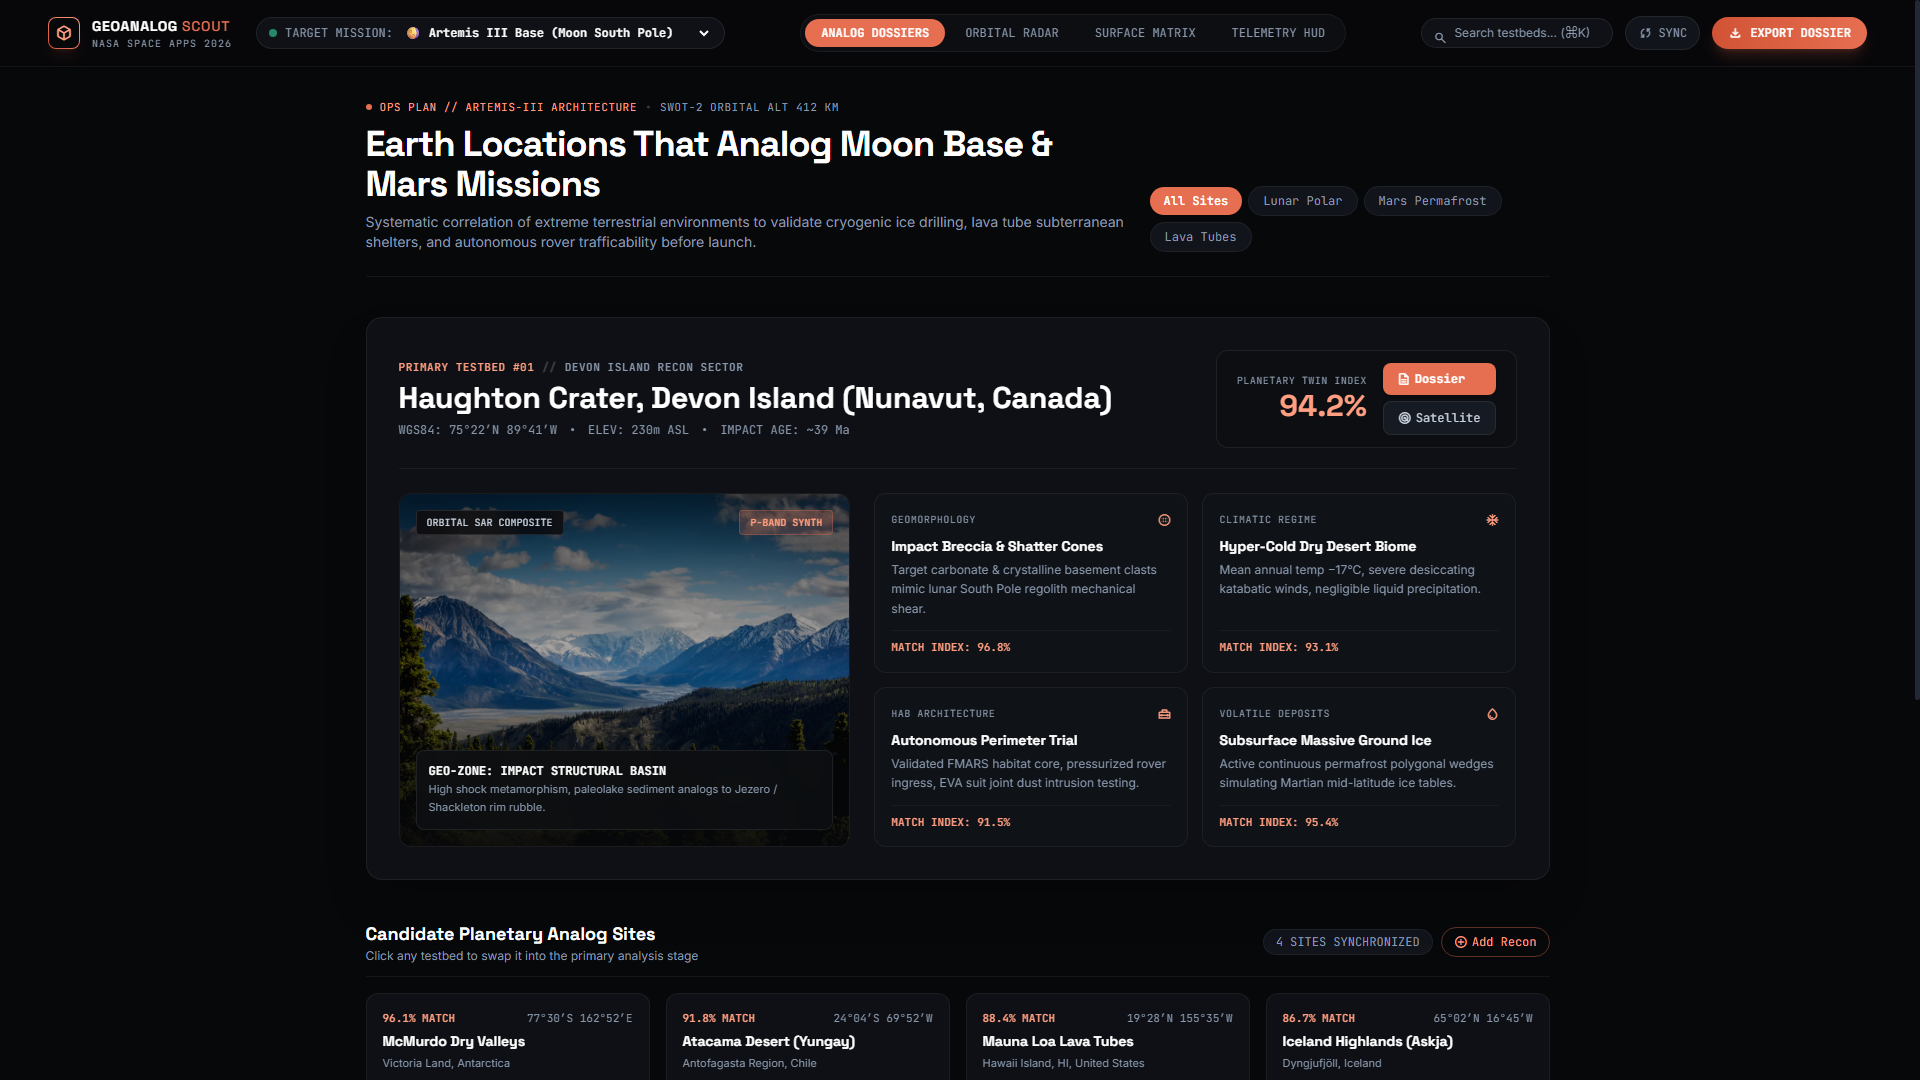
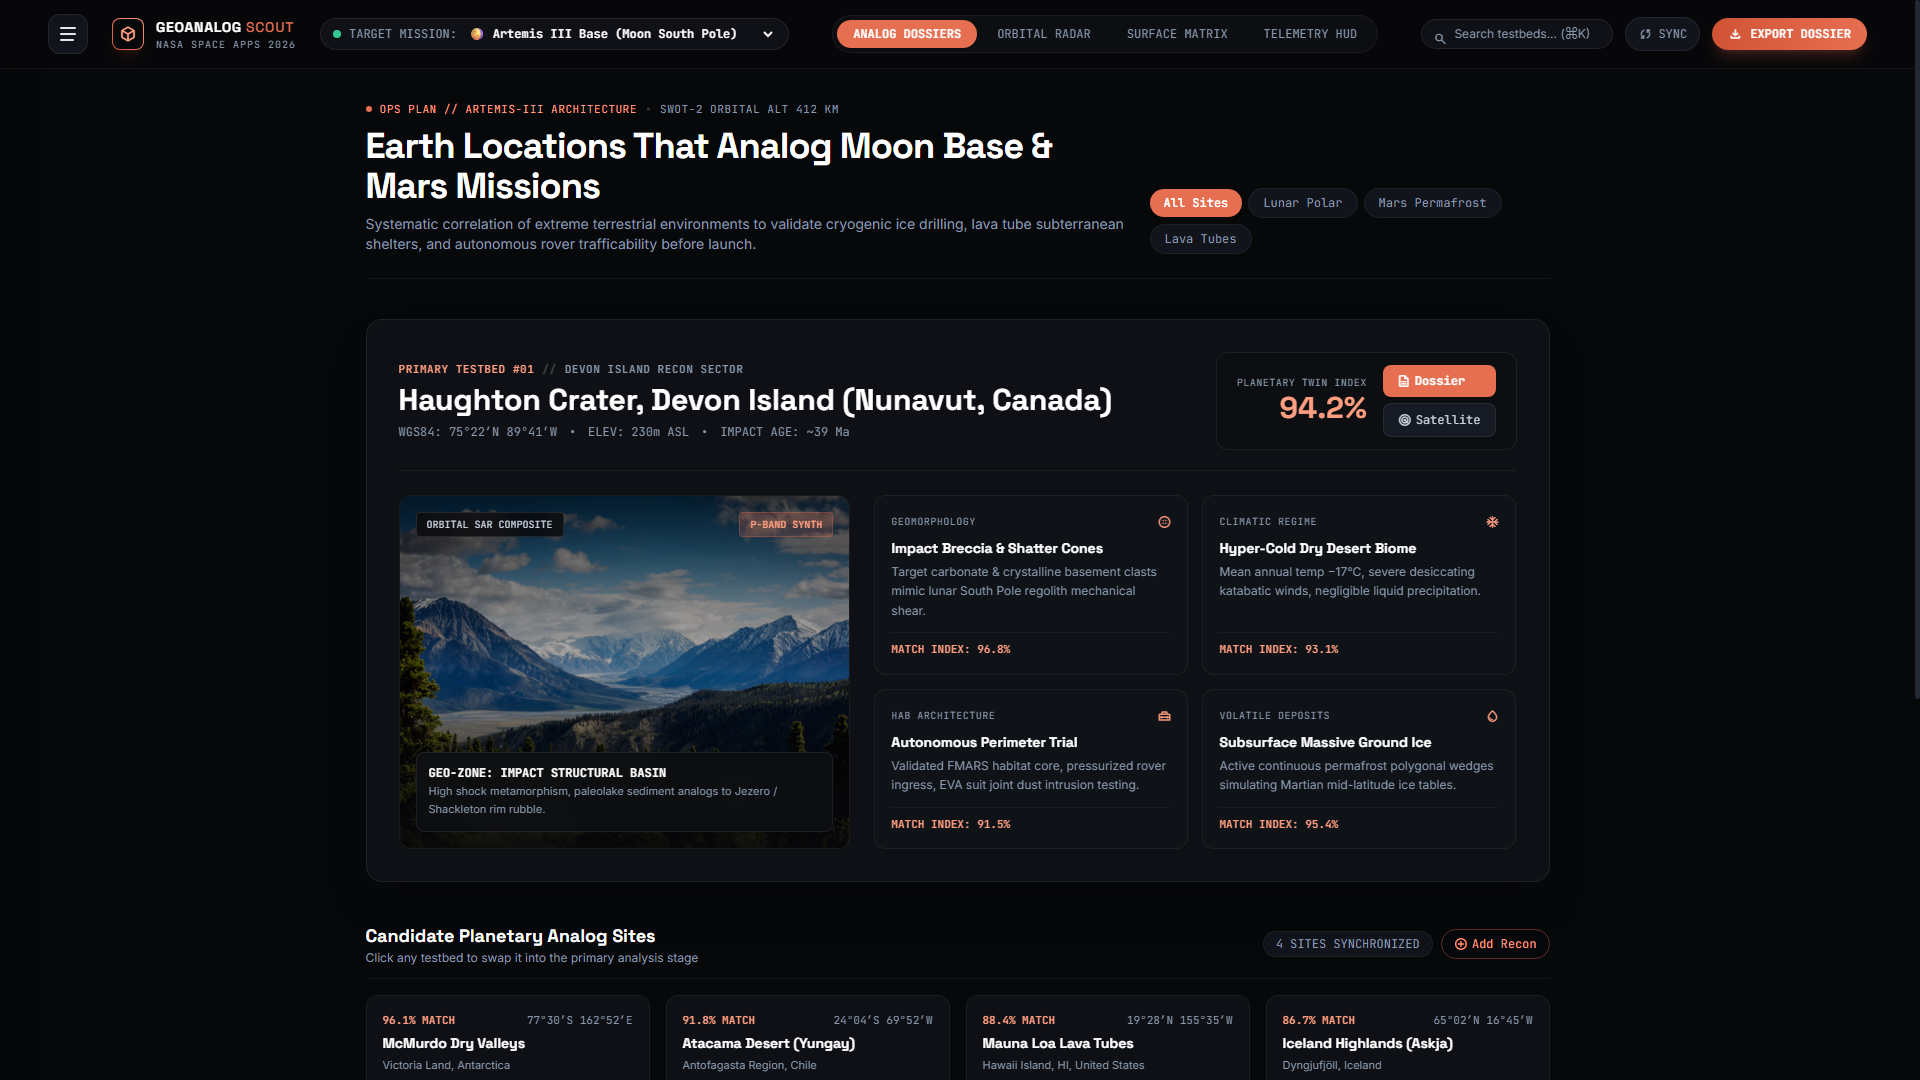
Add collapsible 3-lines hamburger menu to toggle analog sites catalog sidebar

diff --git a/app.js b/app.js
@@ -18,6 +18,7 @@ document.addEventListener('DOMContentLoaded', () => {
 
   initHeroDossier(activeSite);
   renderCandidateCards('all');
+  initCollapsibleSidebar();
   initFilterChips();
   initSearch();
   initMissionSelector();
@@ -542,6 +543,7 @@ function initAddReconForm() {
     sites.push(newSite);
     renderCandidateCards(activeCategory);
     populateMatrixTable();
+    if (window.refreshSidebarSites) window.refreshSidebarSites();
     initHeroDossier(newSite);
 
     form.reset();
@@ -613,7 +615,7 @@ function initSyncButton() {
 // ================= 12. ORBITAL PASS COUNTDOWN TIMER =================
 function initOrbitalPassTimer() {
   const timerEl = document.getElementById('orbital-timer');
-  if (!timerEl) return;
+  const sidebarTimerEl = document.getElementById('sidebar-pass-timer');
 
   let totalSeconds = 14 * 60 + 28;
 
@@ -623,6 +625,237 @@ function initOrbitalPassTimer() {
 
     const m = String(Math.floor(totalSeconds / 60)).padStart(2, '0');
     const s = String(totalSeconds % 60).padStart(2, '0');
-    timerEl.textContent = `T-MINUS 00:${m}:${s}`;
+    const timeStr = `T-MINUS 00:${m}:${s}`;
+    if (timerEl) timerEl.textContent = timeStr;
+    if (sidebarTimerEl) sidebarTimerEl.textContent = timeStr;
   }, 1000);
+}
+
+// ================= 13. COLLAPSIBLE LEFT SIDEBAR (THREE LINES MENU) =================
+function initCollapsibleSidebar() {
+  const toggleBtn = document.getElementById('sidebar-toggle-btn');
+  const closeBtn = document.getElementById('sidebar-close-btn');
+  const backdrop = document.getElementById('sidebar-backdrop');
+  const drawer = document.getElementById('left-sidebar-drawer');
+  const container = document.getElementById('sidebar-sites-container');
+  const searchInput = document.getElementById('sidebar-search-input');
+  const filterChips = document.getElementById('sidebar-filter-chips');
+  const missionLabel = document.getElementById('sidebar-mission-label');
+
+  if (!toggleBtn || !drawer || !backdrop) return;
+
+  let isSidebarOpen = false;
+  let sidebarCategory = 'all';
+  let sidebarSearchTerm = '';
+
+  function openSidebar() {
+    isSidebarOpen = true;
+    drawer.classList.remove('-translate-x-full');
+    drawer.classList.add('translate-x-0');
+    backdrop.classList.remove('opacity-0', 'pointer-events-none');
+    backdrop.classList.add('opacity-100', 'pointer-events-auto');
+    toggleBtn.classList.add('sidebar-open');
+    toggleBtn.setAttribute('aria-expanded', 'true');
+    renderSidebarSites();
+    if (searchInput) searchInput.focus();
+  }
+
+  function closeSidebar() {
+    isSidebarOpen = false;
+    drawer.classList.add('-translate-x-full');
+    drawer.classList.remove('translate-x-0');
+    backdrop.classList.add('opacity-0', 'pointer-events-none');
+    backdrop.classList.remove('opacity-100', 'pointer-events-auto');
+    toggleBtn.classList.remove('sidebar-open');
+    toggleBtn.setAttribute('aria-expanded', 'false');
+  }
+
+  function toggleSidebar() {
+    if (isSidebarOpen) {
+      closeSidebar();
+    } else {
+      openSidebar();
+    }
+  }
+
+  // Toggle button click (Three lines)
+  toggleBtn.addEventListener('click', (e) => {
+    e.stopPropagation();
+    toggleSidebar();
+  });
+
+  // Close button click
+  if (closeBtn) {
+    closeBtn.addEventListener('click', closeSidebar);
+  }
+
+  // Backdrop click
+  backdrop.addEventListener('click', closeSidebar);
+
+  // Keyboard Escape
+  window.addEventListener('keydown', (e) => {
+    if (e.key === 'Escape' && isSidebarOpen) {
+      closeSidebar();
+    }
+  });
+
+  // Search input in sidebar
+  if (searchInput) {
+    searchInput.addEventListener('input', (e) => {
+      sidebarSearchTerm = e.target.value.toLowerCase().trim();
+      renderSidebarSites();
+    });
+  }
+
+  // Category filter chips in sidebar
+  if (filterChips) {
+    filterChips.addEventListener('click', (e) => {
+      const chip = e.target.closest('.sidebar-cat-chip');
+      if (!chip) return;
+
+      document.querySelectorAll('.sidebar-cat-chip').forEach(c => {
+        c.className = 'sidebar-cat-chip px-2.5 py-1 rounded-full text-[10px] font-mono bg-space-850 text-slate-subtle hover:text-white border border-white/[0.06] transition-all cursor-pointer';
+      });
+      chip.className = 'sidebar-cat-chip px-2.5 py-1 rounded-full text-[10px] font-mono bg-terracotta-500 text-white font-semibold transition-all cursor-pointer';
+
+      sidebarCategory = chip.getAttribute('data-cat') || 'all';
+      renderSidebarSites();
+    });
+  }
+
+  // Quick Action Buttons in sidebar
+  const btnMap = document.getElementById('sidebar-btn-map');
+  if (btnMap) {
+    btnMap.addEventListener('click', () => {
+      closeSidebar();
+      const targetBtn = document.getElementById('btn-view-satellite') || document.getElementById('btn-hero-satellite');
+      if (targetBtn) targetBtn.click();
+    });
+  }
+
+  const btnMatrix = document.getElementById('sidebar-btn-matrix');
+  if (btnMatrix) {
+    btnMatrix.addEventListener('click', () => {
+      closeSidebar();
+      const targetBtn = document.getElementById('tab-matrix') || document.getElementById('btn-surface-matrix-view');
+      if (targetBtn) targetBtn.click();
+    });
+  }
+
+  const btnTerminal = document.getElementById('sidebar-btn-terminal');
+  if (btnTerminal) {
+    btnTerminal.addEventListener('click', () => {
+      closeSidebar();
+      const targetBtn = document.getElementById('tab-telemetry');
+      if (targetBtn) targetBtn.click();
+    });
+  }
+
+  const btnRecon = document.getElementById('sidebar-btn-recon');
+  if (btnRecon) {
+    btnRecon.addEventListener('click', () => {
+      closeSidebar();
+      const targetBtn = document.getElementById('btn-add-recon');
+      if (targetBtn) targetBtn.click();
+    });
+  }
+
+  // Render analog sites in sidebar
+  function renderSidebarSites() {
+    if (!container) return;
+    container.innerHTML = '';
+
+    const filtered = sites.filter(s => {
+      const matchesCat = (sidebarCategory === 'all' || (s.category && s.category.includes(sidebarCategory)));
+      const matchesSearch = !sidebarSearchTerm || 
+        s.name.toLowerCase().includes(sidebarSearchTerm) ||
+        s.region.toLowerCase().includes(sidebarSearchTerm) ||
+        (s.specs?.geomorphology?.title && s.specs.geomorphology.title.toLowerCase().includes(sidebarSearchTerm)) ||
+        (s.specs?.climate?.title && s.specs.climate.title.toLowerCase().includes(sidebarSearchTerm));
+      return matchesCat && matchesSearch;
+    });
+
+    if (filtered.length === 0) {
+      container.innerHTML = `
+        <div class="p-6 text-center text-slate-subtle border border-white/[0.04] rounded-xl bg-space-900/30">
+          <span class="material-symbols-outlined text-2xl mb-1 text-slate-500" data-icon="search_off">search_off</span>
+          <p class="text-xs font-mono">No matching analog sites found.</p>
+        </div>
+      `;
+      return;
+    }
+
+    filtered.forEach(s => {
+      const isActive = activeSite && (activeSite.id === s.id);
+      const card = document.createElement('div');
+      card.className = `p-3 rounded-xl border transition-all flex flex-col gap-1.5 cursor-pointer group ${
+        isActive 
+          ? 'border-terracotta-500/80 bg-space-850/90 shadow-lg shadow-terracotta-500/10' 
+          : 'border-white/[0.06] hover:border-terracotta-500/40 bg-space-900/40 hover:bg-space-850/70'
+      }`;
+      card.setAttribute('data-sidebar-site-id', s.id);
+
+      card.innerHTML = `
+        <div class="flex items-center justify-between">
+          <div class="flex items-center gap-1.5">
+            <span class="w-1.5 h-1.5 rounded-full ${isActive ? 'bg-terracotta-400 animate-pulse' : 'bg-slate-500'}"></span>
+            <span class="text-[9px] font-mono text-terracotta-400 uppercase tracking-wider font-semibold">${s.dossierCode}</span>
+          </div>
+          <span class="text-[10px] font-mono px-2 py-0.5 rounded-full ${
+            isActive 
+              ? 'bg-terracotta-500 text-white font-bold' 
+              : 'bg-terracotta-500/10 text-terracotta-400 border border-terracotta-500/20 font-bold'
+          }">${s.fidelity}% MATCH</span>
+        </div>
+        <h4 class="font-space font-bold text-xs text-white group-hover:text-terracotta-400 transition-colors">${s.name}</h4>
+        <p class="text-[10px] text-slate-subtle line-clamp-1">${s.region} • ${s.coords}</p>
+        <div class="flex items-center justify-between text-[9px] font-mono text-slate-subtle pt-1.5 border-t border-white/[0.04]">
+          <span class="uppercase tracking-wider truncate max-w-[170px]">${s.analogType}</span>
+          <span class="text-terracotta-400 group-hover:translate-x-0.5 transition-transform flex items-center gap-0.5 font-semibold">
+            <span>${isActive ? 'Active' : 'Load Site'}</span>
+            <span>›</span>
+          </span>
+        </div>
+      `;
+
+      card.addEventListener('click', () => {
+        initHeroDossier(s);
+        renderCandidateCards(activeCategory);
+        renderSidebarSites();
+        
+        // Scroll to hero section smoothly
+        const hero = document.getElementById('hero-section');
+        if (hero) hero.scrollIntoView({ behavior: 'smooth', block: 'start' });
+
+        // Close drawer after selection so user sees the updated view
+        setTimeout(closeSidebar, 200);
+      });
+
+      container.appendChild(card);
+    });
+  }
+
+  // Sync sidebar mission label when mission select changes
+  const missionSelect = document.getElementById('mission-target-select');
+  if (missionSelect && missionLabel) {
+    const updateMissionLabel = () => {
+      const selectedOption = missionSelect.options[missionSelect.selectedIndex];
+      if (selectedOption) {
+        missionLabel.textContent = selectedOption.textContent.replace(/^[^\s]+\s*/, '');
+      }
+    };
+    missionSelect.addEventListener('change', updateMissionLabel);
+    updateMissionLabel();
+  }
+
+  // Also expose re-render if new recon site added
+  window.refreshSidebarSites = renderSidebarSites;
+
+  // Initial render of sidebar sites
+  renderSidebarSites();
+
+  // Support ?sidebar=open or #sidebar trigger
+  if (window.location.search.includes('sidebar=open') || window.location.hash === '#sidebar') {
+    setTimeout(openSidebar, 150);
+  }
 }

diff --git a/index.html b/index.html
@@ -81,6 +81,23 @@
   ::-webkit-scrollbar-thumb { background: #222834; border-radius: 9999px; }
   ::-webkit-scrollbar-thumb:hover { background: #323b4c; }
 
+  /* Hamburger 3-lines icon transition */
+  .bar-top, .bar-mid, .bar-bot {
+    transition: transform 0.25s cubic-bezier(0.4, 0, 0.2, 1), opacity 0.2s ease, background-color 0.2s ease, width 0.2s ease;
+  }
+  .sidebar-open .bar-top {
+    transform: translateY(6px) rotate(45deg);
+    background-color: #f97316 !important;
+  }
+  .sidebar-open .bar-mid {
+    opacity: 0;
+    transform: scaleX(0);
+  }
+  .sidebar-open .bar-bot {
+    transform: translateY(-6px) rotate(-45deg);
+    background-color: #f97316 !important;
+  }
+
   @media print {
     body * { visibility: hidden; }
     #dossier-print-area, #dossier-print-area * { visibility: visible; }
@@ -91,10 +108,103 @@
 </head>
 <body class="bg-space-950 text-slate-100 min-h-screen flex flex-col selection:bg-terracotta-500 selection:text-white">
 
+  <!-- ================= COLLAPSIBLE LEFT SIDEBAR DRAWER (THREE LINES MENU) ================= -->
+  <!-- Backdrop Overlay -->
+  <div id="sidebar-backdrop" class="fixed inset-0 bg-space-950/75 backdrop-blur-sm z-50 opacity-0 pointer-events-none transition-opacity duration-300"></div>
+
+  <!-- Left Sidebar Drawer Container -->
+  <aside id="left-sidebar-drawer" class="fixed top-0 left-0 bottom-0 z-50 w-80 sm:w-96 bg-space-950/95 backdrop-blur-2xl border-r border-white/[0.08] shadow-2xl flex flex-col transform -translate-x-full transition-transform duration-300 ease-in-out overflow-hidden" aria-label="Analog Sites Catalog Drawer">
+    <!-- Drawer Header -->
+    <div class="px-5 py-4 border-b border-white/[0.08] flex items-center justify-between bg-space-900/60">
+      <div class="flex items-center gap-2.5">
+        <div class="w-7 h-7 rounded-lg bg-terracotta-500/20 border border-terracotta-500/40 flex items-center justify-center text-terracotta-400">
+          <span class="material-symbols-outlined text-sm" data-icon="explore">explore</span>
+        </div>
+        <div>
+          <h2 class="font-space font-bold text-xs uppercase tracking-wider text-white">Analog Testbed Catalog</h2>
+          <p class="text-[10px] font-mono text-slate-subtle tracking-widest uppercase">WGS84 DATUM // 5 RECON SITES</p>
+        </div>
+      </div>
+      <button id="sidebar-close-btn" title="Close Sidebar (Esc)" aria-label="Close Sidebar" class="w-8 h-8 rounded-lg bg-space-850 hover:bg-space-800 border border-white/[0.08] hover:border-white/[0.2] flex items-center justify-center text-slate-300 hover:text-white transition-colors cursor-pointer">
+        <span class="material-symbols-outlined text-sm" data-icon="close">close</span>
+      </button>
+    </div>
+
+    <!-- Active Mission Indicator & Quick Search -->
+    <div class="p-4 space-y-3 border-b border-white/[0.06] bg-space-900/30">
+      <!-- Mission Pill -->
+      <div class="bg-space-850/80 border border-white/[0.06] p-2.5 rounded-xl flex items-center justify-between">
+        <div class="flex items-center gap-2 truncate">
+          <span class="w-2 h-2 rounded-full bg-emerald-400 animate-pulse shrink-0"></span>
+          <div class="flex flex-col truncate">
+            <span class="text-[9px] font-mono text-slate-subtle uppercase tracking-wider">ACTIVE MISSION</span>
+            <span id="sidebar-mission-label" class="text-xs font-semibold text-slate-100 truncate">Artemis III Base (Moon South Pole)</span>
+          </div>
+        </div>
+        <span class="text-[10px] font-mono bg-emerald-500/10 text-emerald-400 border border-emerald-500/20 px-2 py-0.5 rounded-full shrink-0">LOCKED</span>
+      </div>
+
+      <!-- Quick Search input inside sidebar -->
+      <div class="relative">
+        <span class="material-symbols-outlined text-slate-subtle text-xs absolute left-3 top-2.5" data-icon="search">search</span>
+        <input id="sidebar-search-input" type="text" placeholder="Filter sites by name, soil, biome..." class="w-full bg-space-850/80 border border-white/[0.08] text-xs pl-8 pr-3 py-2 rounded-lg text-slate-100 placeholder:text-slate-subtle focus:border-terracotta-500 focus:outline-none transition-all"/>
+      </div>
+
+      <!-- Quick Category Filter Chips -->
+      <div class="flex flex-wrap gap-1.5 pt-1" id="sidebar-filter-chips">
+        <button data-cat="all" class="sidebar-cat-chip px-2.5 py-1 rounded-full text-[10px] font-mono bg-terracotta-500 text-white font-semibold transition-all cursor-pointer">ALL</button>
+        <button data-cat="lunar-polar" class="sidebar-cat-chip px-2.5 py-1 rounded-full text-[10px] font-mono bg-space-850 text-slate-subtle hover:text-white border border-white/[0.06] transition-all cursor-pointer">LUNAR POLAR</button>
+        <button data-cat="martian-permafrost" class="sidebar-cat-chip px-2.5 py-1 rounded-full text-[10px] font-mono bg-space-850 text-slate-subtle hover:text-white border border-white/[0.06] transition-all cursor-pointer">MARS PERMAFROST</button>
+        <button data-cat="lava-tubes" class="sidebar-cat-chip px-2.5 py-1 rounded-full text-[10px] font-mono bg-space-850 text-slate-subtle hover:text-white border border-white/[0.06] transition-all cursor-pointer">LAVA TUBES</button>
+      </div>
+    </div>
+
+    <!-- Scrollable Analog Sites List -->
+    <div class="flex-1 overflow-y-auto p-4 space-y-2.5" id="sidebar-sites-container">
+      <!-- Injected dynamically via JS -->
+    </div>
+
+    <!-- Quick Tools Cluster & Footer -->
+    <div class="p-4 border-t border-white/[0.08] bg-space-900/60 space-y-3 shrink-0">
+      <div class="grid grid-cols-2 gap-2 text-[11px] font-mono">
+        <button id="sidebar-btn-map" class="flex items-center gap-1.5 px-3 py-2 rounded-lg bg-space-850 hover:bg-space-800 border border-white/[0.06] hover:border-terracotta-500/40 text-slate-200 hover:text-white transition-all justify-center cursor-pointer">
+          <span class="material-symbols-outlined text-xs text-terracotta-400" data-icon="public">public</span>
+          <span>Satellite 3D</span>
+        </button>
+        <button id="sidebar-btn-matrix" class="flex items-center gap-1.5 px-3 py-2 rounded-lg bg-space-850 hover:bg-space-800 border border-white/[0.06] hover:border-terracotta-500/40 text-slate-200 hover:text-white transition-all justify-center cursor-pointer">
+          <span class="material-symbols-outlined text-xs text-terracotta-400" data-icon="table_chart">table_chart</span>
+          <span>Matrix Table</span>
+        </button>
+        <button id="sidebar-btn-terminal" class="flex items-center gap-1.5 px-3 py-2 rounded-lg bg-space-850 hover:bg-space-800 border border-white/[0.06] hover:border-terracotta-500/40 text-slate-200 hover:text-white transition-all justify-center cursor-pointer">
+          <span class="material-symbols-outlined text-xs text-terracotta-400" data-icon="terminal">terminal</span>
+          <span>Orbital HUD</span>
+        </button>
+        <button id="sidebar-btn-recon" class="flex items-center gap-1.5 px-3 py-2 rounded-lg bg-space-850 hover:bg-space-800 border border-white/[0.06] hover:border-terracotta-500/40 text-slate-200 hover:text-white transition-all justify-center cursor-pointer">
+          <span class="material-symbols-outlined text-xs text-terracotta-400" data-icon="add_circle">add_circle</span>
+          <span>+ Add Recon</span>
+        </button>
+      </div>
+
+      <div class="flex items-center justify-between text-[10px] font-mono text-slate-subtle pt-1 border-t border-white/[0.04]">
+        <span>SWOT-2: <strong id="sidebar-pass-timer" class="text-terracotta-400">T-MINUS 08:14</strong></span>
+        <span>NASA SPACE APPS</span>
+      </div>
+    </div>
+  </aside>
+
   <!-- ================= TOP NAVIGATION ================= -->
-  <header class="sticky top-0 z-40 bg-space-950/80 backdrop-blur-xl border-b border-white/[0.06] px-6 lg:px-12 py-3.5 flex items-center justify-between">
-    <!-- Brand Logo -->
-    <div class="flex items-center gap-6">
+  <header class="sticky top-0 z-40 bg-space-950/80 backdrop-blur-xl border-b border-white/[0.06] px-4 lg:px-12 py-3.5 flex items-center justify-between">
+    <!-- Brand Logo & Sidebar Toggle -->
+    <div class="flex items-center gap-4 lg:gap-6">
+      <!-- Three Lines (Hamburger Menu) Toggle Button -->
+      <button id="sidebar-toggle-btn" title="Toggle Terrestrial Analogs Sidebar (Three Lines)" aria-label="Toggle Catalog Sidebar" class="flex flex-col justify-center items-center w-10 h-10 rounded-xl bg-space-850 hover:bg-space-800 border border-white/[0.08] hover:border-terracotta-500/50 text-white transition-all group shrink-0 shadow-sm cursor-pointer">
+        <div class="flex flex-col justify-between w-4 h-3.5" id="hamburger-icon-bars">
+          <span class="block h-0.5 w-4 bg-slate-200 group-hover:bg-terracotta-400 transition-all rounded-full bar-top"></span>
+          <span class="block h-0.5 w-4 bg-slate-200 group-hover:bg-terracotta-400 transition-all rounded-full bar-mid"></span>
+          <span class="block h-0.5 w-3.5 group-hover:w-4 bg-slate-200 group-hover:bg-terracotta-400 transition-all rounded-full bar-bot"></span>
+        </div>
+      </button>
+
       <div class="flex items-center gap-3 cursor-pointer group" id="btn-brand-home">
         <div class="w-8 h-8 rounded-lg bg-gradient-to-tr from-terracotta-600 to-terracotta-400 p-[1px] flex items-center justify-center shadow-lg shadow-terracotta-500/10">
           <div class="w-full h-full bg-space-950 rounded-[7px] flex items-center justify-center text-terracotta-400">
